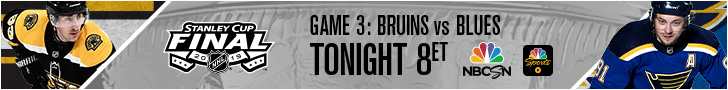
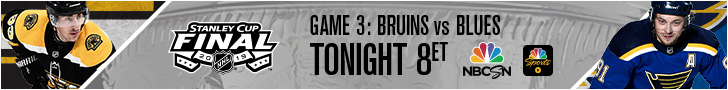
728

Changed region(s): [[0.2115, 0.2222, 0.3929, 0.8222]]

diff --git a/060119_BOS-STL/html_css/SCP19_060119_BOS-STL_TONIGHT_728x90/style.css b/060119_BOS-STL/html_css/SCP19_060119_BOS-STL_TONIGHT_728x90/style.css
@@ -150,7 +150,7 @@ body{
 
 	#scp {
 		position: absolute;
-		left: 163px;
+		left: 168px;
 		top: 21px;	
 		width: 112px;
 		height: 54px;

diff --git a/060119_BOS-STL/html_css/SCP19_060119_BOS-STL_WATCH-NOW_728x90/style.css b/060119_BOS-STL/html_css/SCP19_060119_BOS-STL_WATCH-NOW_728x90/style.css
@@ -148,7 +148,7 @@ body{
 
 	#scp {
 		position: absolute;
-		left: 163px;
+		left: 168px;
 		top: 21px;	
 		width: 112px;
 		height: 54px;
